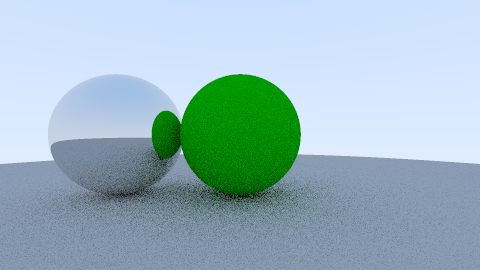
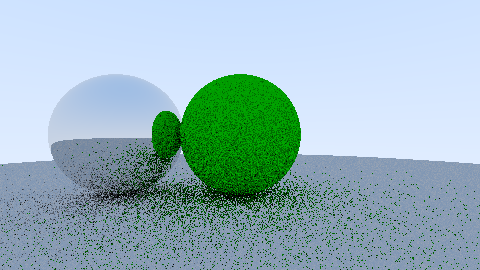
add ability to easily enable/disable antialiasing

diff --git a/Camera.py b/Camera.py
@@ -3,13 +3,15 @@ import Utils
 
 
 class Camera:
-    def __init__(self, verticalFOV, position, lookat, vpWidth, vpHeight):
+    def __init__(self, verticalFOV, position, lookat, vpWidth, vpHeight, antiAliasing):
         self.verticalFOV = verticalFOV
         self.viewPortWidth = vpWidth
         self.viewPortHeight = vpHeight
         self.lookat = lookat
         self.Position = position
-        self.numberSamples = 9
+        self.antiAliasing = antiAliasing
+
+        self.numberSamples = 9 if antiAliasing else 1
 
         self.neaClip = 0.1
         self.farClip = 100.0
@@ -56,23 +58,31 @@ class Camera:
         self.inverseView = np.linalg.inv(self.view)
 
     def CalculateRayDirections(self):
-        self.rayDirections = np.ndarray((int(self.viewPortWidth * self.viewPortHeight), self.numberSamples, 3, 1))
+        self.rayDirections = np.ndarray((int(self.viewPortWidth * self.viewPortHeight) * self.numberSamples, 3, 1))
         for y in range(0, int(self.viewPortHeight)):
             for x in range(0, int(self.viewPortWidth)):
-                sampledRays = np.empty((self.numberSamples, 3, 1))
-                for i in range(-1, 2):
-                    for j in range(-1, 2):
-                        offsetX = float(i) / 3.0
-                        offsetY = float(j) / 3.0
-                        coord = np.array([(float(x) + offsetX) / float(self.viewPortWidth), (float(y) + offsetY) / float(self.viewPortHeight)])
-                        coord = coord * 2.0 - 1.0  # map to -1 - 1
+                sampleNumber = 0
 
-                        target = np.matmul(self.inverseProjection, np.array([[coord[0], coord[1], 1, 1]]).T)
-                        normalized = Utils.normalize(target[:3] / target[3])
-                        rayDirection = np.matmul(self.inverseView,
-                                                 np.array([[normalized[0][0], normalized[1][0], normalized[2][0], 0]]).T)
+                if(self.antiAliasing):
+                    for i in range(-1, 2):
+                        for j in range(-1, 2):
+                            offsetX = float(i) / 3.0
+                            offsetY = float(j) / 3.0
+                            coord = np.array([(float(x) + offsetX) / float(self.viewPortWidth), (float(y) + offsetY) / float(self.viewPortHeight)])
+                            self.calculateRayDirection(coord, x, y, sampleNumber)
+                            sampleNumber = sampleNumber + 1
 
-                        sampledRays[(i+1)*3+j+1] = np.array([rayDirection[0], rayDirection[1], rayDirection[2]])
+                else:
+                    coord = np.array([float(x) / float(self.viewPortWidth), float(y) / float(self.viewPortHeight)])
+                    self.calculateRayDirection(coord, x, y, sampleNumber)
 
-                self.rayDirections[(x + y * int(self.viewPortWidth))] = sampledRays
 
+
+    def calculateRayDirection(self, coord, x, y, sampleNumber):
+        coord = coord * 2.0 - 1.0  # map to -1 - 1
+        target = np.matmul(self.inverseProjection, np.array([[coord[0], coord[1], 1, 1]]).T)
+        normalized = Utils.normalize(target[:3] / target[3])
+        rayDirection = np.matmul(self.inverseView, np.array([[normalized[0][0], normalized[1][0], normalized[2][0], 0]]).T)
+        self.rayDirections[x * self.numberSamples + y * int(
+            self.viewPortWidth) * self.numberSamples + sampleNumber] = np.array(
+            [rayDirection[0], rayDirection[1], rayDirection[2]])

diff --git a/Renderer.py b/Renderer.py
@@ -51,7 +51,7 @@ class Renderer:
 
         for sample in range(0, self.cam.numberSamples):
 
-            rayDirection = self.cam.rayDirections[x + y * self.width][sample]
+            rayDirection = self.cam.rayDirections[x * self.cam.numberSamples + y * self.width * self.cam.numberSamples + sample]
 
             ray = Ray(rayOrigin, rayDirection)
 

diff --git a/main.py b/main.py
@@ -10,7 +10,7 @@ height = 270
 camPosition = np.array([[0],[0],[2]])
 camLookat = np.array([[0],[0],[0]])
 
-cam = Camera(60.0, camPosition, camLookat, width, height)
+cam = Camera(60.0, camPosition, camLookat, width, height, antiAliasing=True)
 cam.CalculateRayDirections()
 
 renderer = Renderer(width, height)
